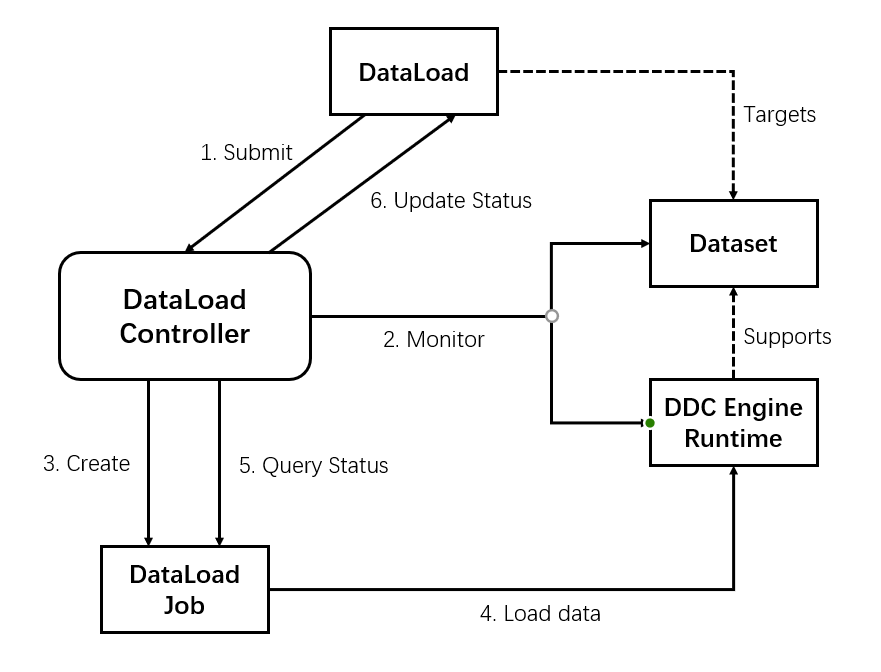
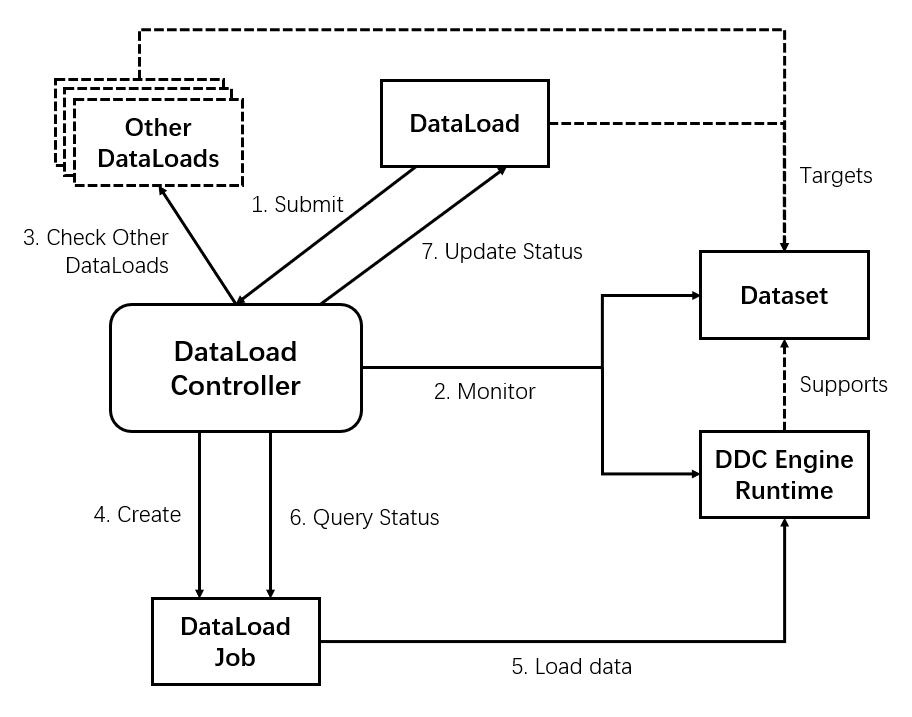
impose restriction on concurrent warmup dataloads

Changed region(s): [[0.0306, 0.0312, 0.9807, 0.9688], [0.3984, 0.3438, 0.4291, 0.375], [0.2452, 0.3125, 0.2758, 0.3438]]

diff --git a/proposals/controller/v0.4.0_distributed_load/v0.4.0_distributed_load.md b/proposals/controller/v0.4.0_distributed_load/v0.4.0_distributed_load.md
@@ -38,6 +38,7 @@
 ## Non-Goals
 - 暂不支持在数据预热时，将数据加载至各个Dataset部署结点的Kernel Cache中的操作
 - 暂不支持定时执行数据预热(类似于CronJob)
+- 暂不支持在同个数据集上并发执行多个数据预热任务
 
 ## API
 
@@ -86,7 +87,7 @@ status:
 ```
 `phase`属性持久化地记录DataLoad的执行状态，包含以下几个阶段：
 - PhaseNone = "": 初始状态
-- PhaseNotStarted = "NotStarted", 表示数据预热未开始
+- PhasePending = "Pending", 表示数据预热未开始，正处于等待状态
 - PhaseLoading = "Loading", 表示正在进行数据预热
 - PhaseLoaded = "Loaded", 表示数据预热已完成
 - PhaseFailed = "Failed"， 表示数据预热失败
@@ -98,16 +99,20 @@ status:
 1. 用户在希望进行数据预热时，提交DataLoad CRD，定义此次数据预热的行为
 
 2. DataLoad controller依据DataLoad CRD中的`dataset`描述(name和namespace信息)，获得对应的Dataset对象,检查该Dataset状态，如果准备就绪，转向步骤3，否则等待Dataset准备就绪
+
+3. 检查是否存在在相同目标数据集上运行（即`status.phase`=`PhaseLoading`）的数据预热任务，如果存在,等待其完成;如果不存在，则转向步骤4
    
-3. DataLoad controller创建一个Job对象
+4. DataLoad controller创建一个Job对象
    
-4. 创建的Job按`target`中定义的目标数据顺序执行分布式数据加载。
+5. 创建的Job按`target`中定义的目标数据顺序执行分布式数据加载。
     
     分布式数据加载依据Dataset底层的分布式缓存引擎使用不同的实现。例如, 对于AlluxioRuntime, 在创建的Job中执行`alluxio fs distributedLoad --replication <target[i].replicas> <target[i].path>`。
 
-5. DataLoad controller周期性查询Job运行状态
+    > Notes: 当`alluxio fs distributedLoad`指定的数据副本数量大于文件所设置的最大副本数量时，这些额外加载的副本会被迅速驱逐，因此在进行分布式数据加载前，需要检查并设置合适的最大副本数量
 
-6. 根据Job运行状态变化更新DataLoad对象中的状态
+6. DataLoad controller周期性查询Job运行状态
+
+7. 根据Job运行状态更新DataLoad对象中的状态
 
 ## Test
 
